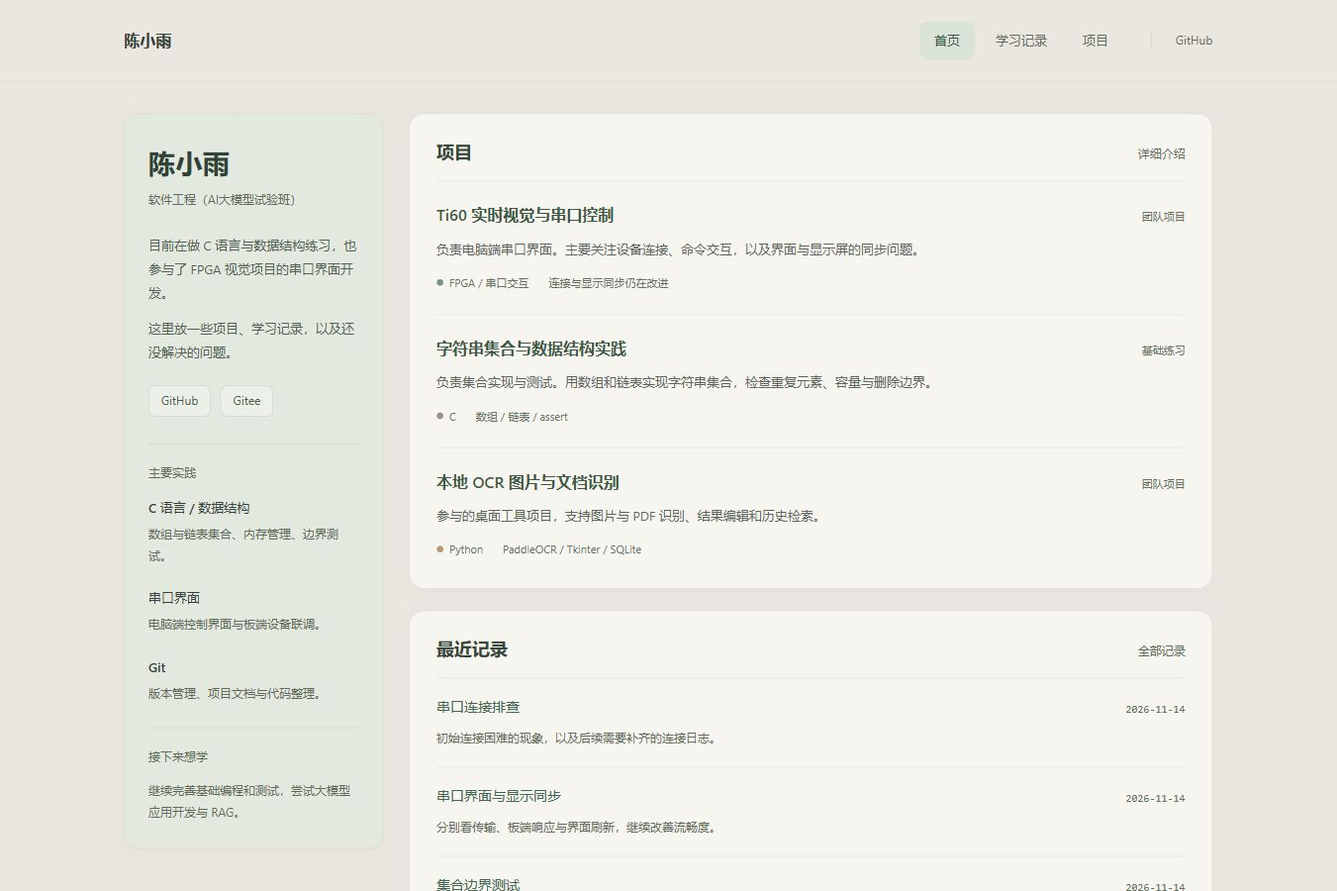
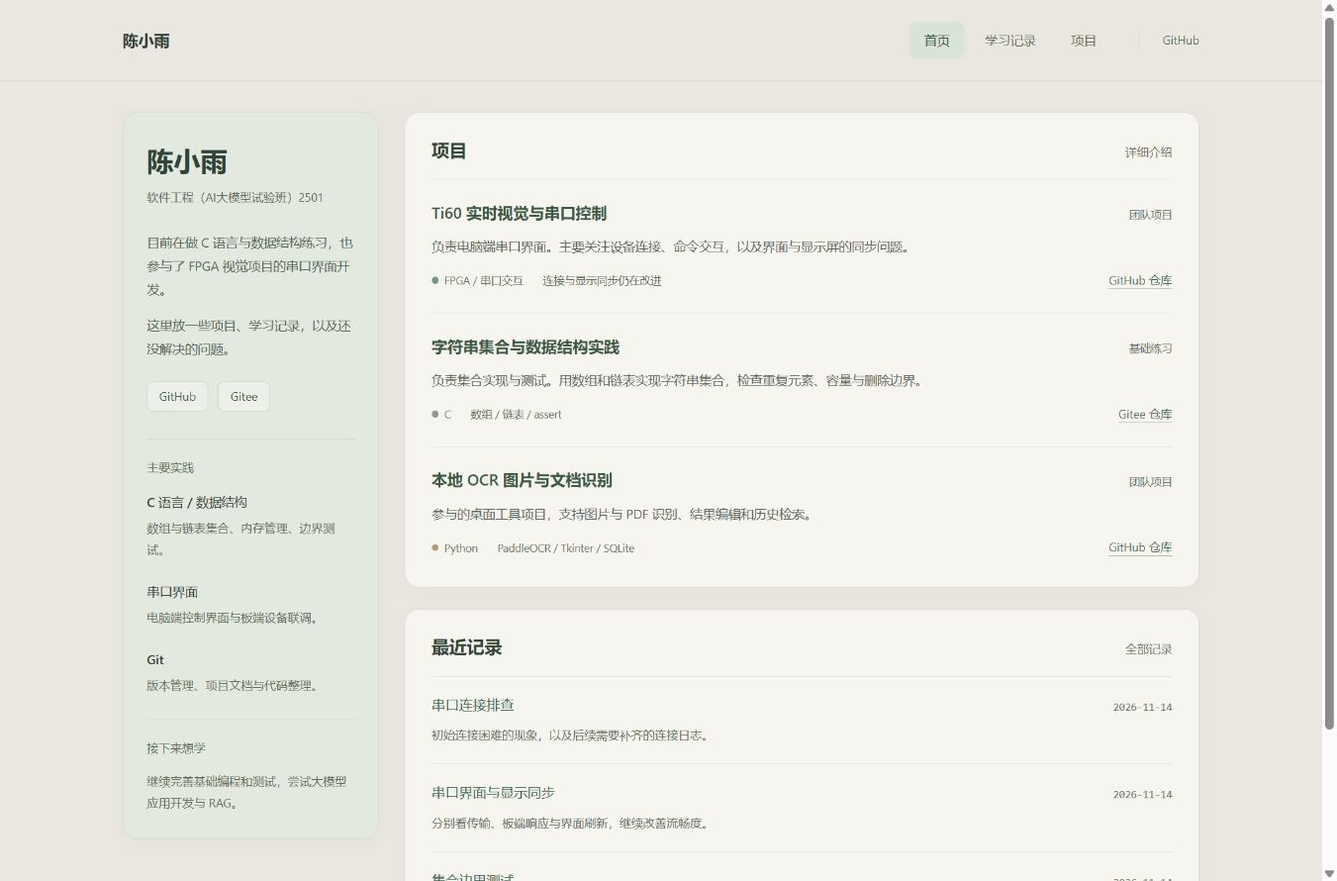
补充2501班级信息和三个项目的仓库入口

diff --git a/陈小雨-个人成长主页.html b/陈小雨-个人成长主页.html
@@ -82,6 +82,7 @@ main.wrap { min-height: 70vh; }
 .project-type { font-size: 11px; color: #66715f; white-space: nowrap; }
 .project-meta { display: flex; flex-wrap: wrap; gap: 7px 20px; font-size: 11px; color: #66715f; }
 .project-meta span { display: flex; align-items: center; gap: 6px; }
+.repo-link { margin-left: auto; font-size: 12px; text-decoration: underline; text-decoration-color: #a6b39b; white-space: nowrap; }
 .language-dot { display: inline-block; width: 7px; height: 7px; border-radius: 50%; background: #789483; }
 .language-dot.c { background: #999292; }
 .language-dot.python { background: #b49b70; }
@@ -190,6 +191,7 @@ main .view > .filters { max-width: 900px; margin: 0 auto; }
   .home-project { padding: 19px 0; }
   .home-project h3 { font-size: 14px; }
   .home-project p { margin: 9px 0; line-height: 1.95; }
+  .repo-link { margin-left: 0; }
   .note-row { gap: 7px 10px; padding: 17px 0; }
   .note-row h3 { font-size: 13px; }
   .note-row time { font-size: 10px; }
@@ -233,7 +235,7 @@ main .view > .filters { max-width: 900px; margin: 0 auto; }
 <body data-single="true"><a class="skip" href="#main">跳到主要内容</a><header class="site-header"><div class="wrap header-inner"><a class="brand" data-page="home" href="index.html">陈小雨</a><nav class="nav" aria-label="主导航"><a data-page="home" href="index.html" aria-current="page">首页</a><a data-page="journal" href="learning.html">学习记录</a><a data-page="projects" href="projects.html">项目</a></nav><a class="github-link" href="https://github.com/Jingzhe-chen714" target="_blank" rel="noopener noreferrer">GitHub</a></div></header><main class="wrap" id="main"><noscript><p class="noscript">JavaScript 未启用，静态内容仍可阅读；筛选与记录表单需要启用 JavaScript。</p></noscript><div class="view" data-view="home"><div class="home-layout">
   <aside class="profile" aria-label="关于我">
     <h1>陈小雨</h1>
-    <p class="profile-class">软件工程（AI大模型试验班）</p>
+    <p class="profile-class">软件工程（AI大模型试验班）2501</p>
     <p>目前在做 C 语言与数据结构练习，也参与了 FPGA 视觉项目的串口界面开发。</p>
     <p>这里放一些项目、学习记录，以及还没解决的问题。</p>
     <div class="profile-links" id="contact">
@@ -256,17 +258,17 @@ main .view > .filters { max-width: 900px; margin: 0 auto; }
       <article class="home-project">
         <div class="project-line"><h3><a data-page="projects" href="projects.html">Ti60 实时视觉与串口控制</a></h3><span class="project-type">团队项目</span></div>
         <p>负责电脑端串口界面。主要关注设备连接、命令交互，以及界面与显示屏的同步问题。</p>
-        <div class="project-meta"><span><i class="language-dot" aria-hidden="true"></i>FPGA / 串口交互</span><span>连接与显示同步仍在改进</span></div>
+        <div class="project-meta"><span><i class="language-dot" aria-hidden="true"></i>FPGA / 串口交互</span><span>连接与显示同步仍在改进</span><a class="repo-link" href="https://github.com/Jingzhe-chen714/fpga" target="_blank" rel="noopener noreferrer" aria-label="查看 Ti60 项目的 GitHub 仓库">GitHub 仓库</a></div>
       </article>
       <article class="home-project">
         <div class="project-line"><h3><a data-page="projects" href="projects.html">字符串集合与数据结构实践</a></h3><span class="project-type">基础练习</span></div>
         <p>负责集合实现与测试。用数组和链表实现字符串集合，检查重复元素、容量与删除边界。</p>
-        <div class="project-meta"><span><i class="language-dot c" aria-hidden="true"></i>C</span><span>数组 / 链表 / assert</span></div>
+        <div class="project-meta"><span><i class="language-dot c" aria-hidden="true"></i>C</span><span>数组 / 链表 / assert</span><a class="repo-link" href="https://gitee.com/chen-xiaoyu33/data-structure-course-design" target="_blank" rel="noopener noreferrer" aria-label="查看数据结构项目的 Gitee 仓库">Gitee 仓库</a></div>
       </article>
       <article class="home-project">
         <div class="project-line"><h3><a data-page="projects" href="projects.html">本地 OCR 图片与文档识别</a></h3><span class="project-type">团队项目</span></div>
         <p>参与的桌面工具项目，支持图片与 PDF 识别、结果编辑和历史检索。</p>
-        <div class="project-meta"><span><i class="language-dot python" aria-hidden="true"></i>Python</span><span>PaddleOCR / Tkinter / SQLite</span></div>
+        <div class="project-meta"><span><i class="language-dot python" aria-hidden="true"></i>Python</span><span>PaddleOCR / Tkinter / SQLite</span><a class="repo-link" href="https://github.com/weijiayue19/project6" target="_blank" rel="noopener noreferrer" aria-label="查看 OCR 项目的 GitHub 仓库">GitHub 仓库</a></div>
       </article>
     </section>
 
@@ -279,12 +281,12 @@ main .view > .filters { max-width: 900px; margin: 0 auto; }
   </div>
 </div>
 </div><div class="view" data-view="journal"><header class="page-title"><div class="title-line"><h1>学习记录</h1></div><p>按整理日期记录项目中遇到的问题、尝试和后续计划。</p></header><div class="searchbar"><div class="search-field"><label for="note-search">搜索学习记录</label><input id="note-search" type="search" placeholder="试试：串口、同步、集合" maxlength="100"></div><div class="filters" aria-label="学习记录分类"><button class="filter" data-note-filter="全部" aria-pressed="true" type="button">全部</button><button class="filter" data-note-filter="FPGA" aria-pressed="false" type="button">FPGA</button><button class="filter" data-note-filter="C 语言" aria-pressed="false" type="button">C 语言</button></div></div><p class="result-info" id="note-count" aria-live="polite">共 3 条学习记录</p><div class="journal-layout"><div><div id="notes"><article class="entry" data-category="FPGA"><div class="entry-meta"><time datetime="2026-11-14">2026.11.14 · 项目复盘</time><span class="tag">FPGA</span><span>待补充根因</span></div><h2>串口连接排查</h2><div class="entry-grid"><b>学到什么</b><p>参与 FPGA 项目的电脑串口界面，把界面操作与板端控制联系起来。先确认通信路径，再排查具体功能，是这次实践中需要坚持的顺序。</p><b>遇到问题</b><p>项目最开始，电脑串口与板子难以建立连接。</p><b>处理 / 下一步</b><p>保留这一问题作为联调复盘。下一轮按端口识别、端口占用、通信参数和命令响应逐项记录，并为界面补充连接状态与错误提示。接下来重点补全连接日志，确认具体根因。</p></div><div class="entry-source">相关项目：<a href="https://github.com/Jingzhe-chen714/fpga" target="_blank" rel="noopener noreferrer">FPGA 项目与串口控制说明</a></div></article><article class="entry" data-category="FPGA"><div class="entry-meta"><time datetime="2026-11-14">2026.11.14 · 项目复盘</time><span class="tag">FPGA</span><span>持续改进</span></div><h2>串口界面与显示同步</h2><div class="entry-grid"><b>学到什么</b><p>串口控制界面、板端处理和显示屏刷新之间存在多个环节；观察到同一画面，并不等于已经验证严格同步。</p><b>遇到问题</b><p>串口界面与显示屏难以做到百分之百同步，整体流畅度还不够。</p><b>处理 / 下一步</b><p>目前仍是待改进事项。计划分别记录命令发送、板端响应和显示变化的时间；再检查界面刷新是否受阻、是否重复发送命令。仓库的仿真与编译记录可以辅助分析，不能替代真实设备测试。</p></div><div class="entry-source">相关项目：<a href="https://github.com/Jingzhe-chen714/fpga/blob/main/README.md" target="_blank" rel="noopener noreferrer">README：已有验证结果与适用范围</a></div></article><article class="entry" data-category="C 语言"><div class="entry-meta"><time datetime="2026-11-14">2026.11.14 · 项目复盘</time><span class="tag">C 语言</span><span>已有测试记录</span></div><h2>集合边界测试</h2><div class="entry-grid"><b>学到什么</b><p>在数据结构项目中负责集合与测试。数组集合需要处理固定容量，链表集合需要管理节点与字符串的生命周期。</p><b>遇到问题</b><p>测试需要确认重复添加是否改变大小、空集合运算是否正确，以及删除首节点、中间节点和末节点后结构是否仍然有效。我把这些情况作为边界测试的重点。</p><b>处理 / 下一步</b><p>仓库已覆盖基本集合运算、重复元素、删除边界、清空后复用和结果写回等场景。现有测试记录通过；链表分配失败模拟与内存检测仍是后续补充方向。</p></div><div class="entry-source">相关项目：<a href="https://gitee.com/chen-xiaoyu33/data-structure-course-design" target="_blank" rel="noopener noreferrer">集合源码、测试程序与设计说明</a></div></article></div><p id="note-empty" class="empty" hidden>没有找到匹配的记录，试试其他关键词或分类。</p></div></div><details class="write-box" aria-labelledby="write-title"><summary id="write-title">添加学习记录</summary><p class="hint">记录保存在当前浏览器，可以导出 JSON 备份；换设备或清除浏览器数据前，记得先导出。</p><form id="note-form"><div class="form-grid"><div><label for="new-title">标题 *</label><input id="new-title" name="title" required maxlength="80" placeholder="这一次，我弄懂了什么？"></div><div><label for="new-date">整理日期 *</label><input id="new-date" name="date" type="date" value="2026-11-15" required min="2000-01-01" max="2100-12-31"></div><div class="full"><label for="new-what">学了什么 *</label><textarea id="new-what" name="what" required maxlength="1200" placeholder="具体任务、知识点或作品"></textarea></div><div class="full"><label for="new-problem">遇到什么问题 *</label><textarea id="new-problem" name="problem" required maxlength="1200" placeholder="描述现象，也可以记录还没理解的地方"></textarea></div><div class="full"><label for="new-solution">如何处理 / 下一步 *</label><textarea id="new-solution" name="solution" required maxlength="1200" placeholder="写清已做的尝试和仍需验证的部分"></textarea></div></div><div class="form-actions"><button type="submit" class="button">保存到当前浏览器</button><button id="export-notes" type="button" class="button secondary">导出我的记录</button></div><p id="form-status" class="status" role="status"></p></form></details></div><div class="view" data-view="projects"><header class="page-title"><div class="title-line"><h1>项目</h1></div><p>整理目前参与的项目、具体分工和遇到的问题。</p></header><div class="filters" aria-label="项目分类"><button class="filter" data-project-filter="全部" aria-pressed="true" type="button">全部作品</button><button class="filter" data-project-filter="FPGA" aria-pressed="false" type="button">FPGA / 交互</button><button class="filter" data-project-filter="C 语言" aria-pressed="false" type="button">C / 数据结构</button></div><p class="result-info" id="project-count" aria-live="polite">共 2 个项目</p>
-<article class="project" data-category="FPGA"><div><div class="tags"><span class="tag">FPGA</span><span class="tag">串口界面</span><span class="tag">团队项目</span></div><h2>Ti60 实时视觉与串口控制</h2><p class="summary">面向摄像头图像处理和电脑端控制的系统。仓库包括 Sobel / Canny 边缘处理、几何识别、板端工程、电脑控制台与验证资料。</p><dl><dt>解决问题</dt><dd>通过电脑端串口界面控制视觉处理功能，连接板端处理与显示输出。</dd><dt>我的分工</dt><dd>负责电脑端串口界面。具体视觉算法、硬件与系统整体成果属于团队项目范围。</dd><dt>使用技术</dt><dd>串口交互、电脑控制台；系统整体基于 Ti60 FPGA 与 Verilog / SystemVerilog 工程。</dd><dt>主要困难</dt><dd>初始串口连接困难；界面与显示屏同步不足，流畅度仍有提升空间。</dd><dt>当前进展</dt><dd>已有编译与仿真记录，后续继续完成实板联调，检查设备响应与显示效果。</dd></dl><div class="project-links"><a href="https://github.com/Jingzhe-chen714/fpga" target="_blank" rel="noopener noreferrer">查看项目仓库</a><a data-page="journal" href="learning.html">阅读联调复盘</a></div><details><summary>查看项目结构与后续验证计划</summary><pre>FPGA_engin/        板端工程入口与 RTL
+<article class="project" data-category="FPGA"><div><div class="tags"><span class="tag">FPGA</span><span class="tag">串口界面</span><span class="tag">团队项目</span></div><h2>Ti60 实时视觉与串口控制</h2><p class="summary">面向摄像头图像处理和电脑端控制的系统。仓库包括 Sobel / Canny 边缘处理、几何识别、板端工程、电脑控制台与验证资料。</p><dl><dt>解决问题</dt><dd>通过电脑端串口界面控制视觉处理功能，连接板端处理与显示输出。</dd><dt>我的分工</dt><dd>负责电脑端串口界面。具体视觉算法、硬件与系统整体成果属于团队项目范围。</dd><dt>使用技术</dt><dd>串口交互、电脑控制台；系统整体基于 Ti60 FPGA 与 Verilog / SystemVerilog 工程。</dd><dt>主要困难</dt><dd>初始串口连接困难；界面与显示屏同步不足，流畅度仍有提升空间。</dd><dt>当前进展</dt><dd>已有编译与仿真记录，后续继续完成实板联调，检查设备响应与显示效果。</dd></dl><div class="project-links"><a href="https://github.com/Jingzhe-chen714/fpga" target="_blank" rel="noopener noreferrer">GitHub 仓库</a><a data-page="journal" href="learning.html">阅读联调复盘</a></div><details><summary>查看项目结构与后续验证计划</summary><pre>FPGA_engin/        板端工程入口与 RTL
 开发源码/pc_v11/   电脑控制台源码
 开发源码/tb/       测试台
 说明文档/          使用与交付说明
 验证记录/          已有仿真与报告</pre><p>下一步：记录连接失败的具体日志；为命令与显示变化添加时间标记；分别测试串口响应和界面刷新。</p></details><p class="tiny">项目仓库目前为私有，页面保留主要结构与实践记录。</p></div></article>
-<article class="project" data-category="C 语言"><div><div class="tags"><span class="tag">C 语言</span><span class="tag">集合</span><span class="tag">测试</span></div><h2>字符串集合与数据结构实践</h2><p class="summary">这个仓库包含集合、英文文本排版、外部排序等练习。我参与的部分是集合实现与测试，用两种结构理解相同操作的实现差异。</p><dl><dt>解决问题</dt><dd>用数组和链表表示字符串集合，实现添加、删除、并集、交集、差集、子集判断等操作。</dd><dt>我的分工</dt><dd>负责集合与测试；针对重复元素、空集合、删除边界、容量限制和结果写回检查程序行为。</dd><dt>使用技术</dt><dd>C11、数组、链表、动态内存管理、assert 断言测试、Git。</dd><dt>关键挑战</dt><dd>需要兼顾容量和字符串边界，并正确释放链表节点与字符串；这是实现及测试的关注点。</dd><dt>当前证据</dt><dd>仓库保留数组与链表源码、测试程序和测试记录。分配失败模拟与内存检测可继续补充。</dd></dl><div class="project-links"><a href="https://gitee.com/chen-xiaoyu33/data-structure-course-design" target="_blank" rel="noopener noreferrer">查看 Gitee 仓库</a><a href="https://gitee.com/chen-xiaoyu33/data-structure-course-design/tree/master/task1_set" target="_blank" rel="noopener noreferrer">查看集合源码与测试</a></div><details open><summary>代码证据：遍历链表判断成员是否存在</summary><pre><code>int set_contains(const LinkedSet *set, const char *text)
+<article class="project" data-category="C 语言"><div><div class="tags"><span class="tag">C 语言</span><span class="tag">集合</span><span class="tag">测试</span></div><h2>字符串集合与数据结构实践</h2><p class="summary">这个仓库包含集合、英文文本排版、外部排序等练习。我参与的部分是集合实现与测试，用两种结构理解相同操作的实现差异。</p><dl><dt>解决问题</dt><dd>用数组和链表表示字符串集合，实现添加、删除、并集、交集、差集、子集判断等操作。</dd><dt>我的分工</dt><dd>负责集合与测试；针对重复元素、空集合、删除边界、容量限制和结果写回检查程序行为。</dd><dt>使用技术</dt><dd>C11、数组、链表、动态内存管理、assert 断言测试、Git。</dd><dt>关键挑战</dt><dd>需要兼顾容量和字符串边界，并正确释放链表节点与字符串；这是实现及测试的关注点。</dd><dt>当前证据</dt><dd>仓库保留数组与链表源码、测试程序和测试记录。分配失败模拟与内存检测可继续补充。</dd></dl><div class="project-links"><a href="https://gitee.com/chen-xiaoyu33/data-structure-course-design" target="_blank" rel="noopener noreferrer">Gitee 仓库</a><a href="https://gitee.com/chen-xiaoyu33/data-structure-course-design/tree/master/task1_set" target="_blank" rel="noopener noreferrer">查看集合源码与测试</a></div><details open><summary>代码证据：遍历链表判断成员是否存在</summary><pre><code>int set_contains(const LinkedSet *set, const char *text)
 {
     const Node *current = set-&gt;head;
     while (current != NULL) {
@@ -293,7 +295,7 @@ main .view > .filters { max-width: 900px; margin: 0 auto; }
     }
     return 0;
 }</code></pre><p>摘编自 task1_set/linked_set.c 的 set_contains，压缩了部分排版。逐个比较字符串，命中返回 1，遍历结束返回 0；若忽略字符串比较长度因素，时间复杂度为 O(n)。</p></details></div></article>
-<section class="section"><div class="section-heading"><div><h2>其他协作记录</h2></div></div><h3>本地 OCR 图片与文档识别工具</h3><p class="about-copy">我参与的另一个团队项目是 <a href="https://github.com/weijiayue19/project6" target="_blank" rel="noopener noreferrer">project6</a>。项目采用 Python、PaddleOCR、Tkinter 与 SQLite，提供图片 / PDF 识别、识别结果编辑和历史检索。后续继续补充这个项目的实践笔记。</p></section><p class="project-end"><a data-page="journal" href="learning.html">查看相关学习记录</a></p></div></main><footer class="wrap footer"><span>© 2026 陈小雨</span><span>更新于 2026-11-15</span></footer><script>
+<section class="section"><div class="section-heading"><div><h2>其他协作记录</h2></div></div><h3>本地 OCR 图片与文档识别工具</h3><p class="about-copy">我参与的另一个团队项目是 <a href="https://github.com/weijiayue19/project6" target="_blank" rel="noopener noreferrer">project6</a>。项目采用 Python、PaddleOCR、Tkinter 与 SQLite，提供图片 / PDF 识别、识别结果编辑和历史检索。后续继续补充这个项目的实践笔记。</p><div class="project-links"><a href="https://github.com/weijiayue19/project6" target="_blank" rel="noopener noreferrer">GitHub 仓库：weijiayue19/project6</a></div></section><p class="project-end"><a data-page="journal" href="learning.html">查看相关学习记录</a></p></div></main><footer class="wrap footer"><span>© 2026 陈小雨</span><span>更新于 2026-11-15</span></footer><script>
 'use strict';
 (() => {
   const single = document.body.dataset.single === 'true';

diff --git a/projects.html b/projects.html
@@ -1,12 +1,12 @@
 <!doctype html>
 <html lang="zh-CN"><head><meta charset="utf-8"><meta name="viewport" content="width=device-width,initial-scale=1"><meta name="description" content="陈小雨的个人主页：项目、学习记录与编程实践。"><meta name="color-scheme" content="light"><title>项目 · 陈小雨</title><link rel="stylesheet" href="assets/style.css"></head>
 <body data-single="false"><a class="skip" href="#main">跳到主要内容</a><header class="site-header"><div class="wrap header-inner"><a class="brand" data-page="home" href="index.html">陈小雨</a><nav class="nav" aria-label="主导航"><a data-page="home" href="index.html">首页</a><a data-page="journal" href="learning.html">学习记录</a><a data-page="projects" href="projects.html" aria-current="page">项目</a></nav><a class="github-link" href="https://github.com/Jingzhe-chen714" target="_blank" rel="noopener noreferrer">GitHub</a></div></header><main class="wrap" id="main"><noscript><p class="noscript">JavaScript 未启用，静态内容仍可阅读；筛选与记录表单需要启用 JavaScript。</p></noscript><div class="view" data-view="projects"><header class="page-title"><div class="title-line"><h1>项目</h1></div><p>整理目前参与的项目、具体分工和遇到的问题。</p></header><div class="filters" aria-label="项目分类"><button class="filter" data-project-filter="全部" aria-pressed="true" type="button">全部作品</button><button class="filter" data-project-filter="FPGA" aria-pressed="false" type="button">FPGA / 交互</button><button class="filter" data-project-filter="C 语言" aria-pressed="false" type="button">C / 数据结构</button></div><p class="result-info" id="project-count" aria-live="polite">共 2 个项目</p>
-<article class="project" data-category="FPGA"><div><div class="tags"><span class="tag">FPGA</span><span class="tag">串口界面</span><span class="tag">团队项目</span></div><h2>Ti60 实时视觉与串口控制</h2><p class="summary">面向摄像头图像处理和电脑端控制的系统。仓库包括 Sobel / Canny 边缘处理、几何识别、板端工程、电脑控制台与验证资料。</p><dl><dt>解决问题</dt><dd>通过电脑端串口界面控制视觉处理功能，连接板端处理与显示输出。</dd><dt>我的分工</dt><dd>负责电脑端串口界面。具体视觉算法、硬件与系统整体成果属于团队项目范围。</dd><dt>使用技术</dt><dd>串口交互、电脑控制台；系统整体基于 Ti60 FPGA 与 Verilog / SystemVerilog 工程。</dd><dt>主要困难</dt><dd>初始串口连接困难；界面与显示屏同步不足，流畅度仍有提升空间。</dd><dt>当前进展</dt><dd>已有编译与仿真记录，后续继续完成实板联调，检查设备响应与显示效果。</dd></dl><div class="project-links"><a href="https://github.com/Jingzhe-chen714/fpga" target="_blank" rel="noopener noreferrer">查看项目仓库</a><a data-page="journal" href="learning.html">阅读联调复盘</a></div><details><summary>查看项目结构与后续验证计划</summary><pre>FPGA_engin/        板端工程入口与 RTL
+<article class="project" data-category="FPGA"><div><div class="tags"><span class="tag">FPGA</span><span class="tag">串口界面</span><span class="tag">团队项目</span></div><h2>Ti60 实时视觉与串口控制</h2><p class="summary">面向摄像头图像处理和电脑端控制的系统。仓库包括 Sobel / Canny 边缘处理、几何识别、板端工程、电脑控制台与验证资料。</p><dl><dt>解决问题</dt><dd>通过电脑端串口界面控制视觉处理功能，连接板端处理与显示输出。</dd><dt>我的分工</dt><dd>负责电脑端串口界面。具体视觉算法、硬件与系统整体成果属于团队项目范围。</dd><dt>使用技术</dt><dd>串口交互、电脑控制台；系统整体基于 Ti60 FPGA 与 Verilog / SystemVerilog 工程。</dd><dt>主要困难</dt><dd>初始串口连接困难；界面与显示屏同步不足，流畅度仍有提升空间。</dd><dt>当前进展</dt><dd>已有编译与仿真记录，后续继续完成实板联调，检查设备响应与显示效果。</dd></dl><div class="project-links"><a href="https://github.com/Jingzhe-chen714/fpga" target="_blank" rel="noopener noreferrer">GitHub 仓库</a><a data-page="journal" href="learning.html">阅读联调复盘</a></div><details><summary>查看项目结构与后续验证计划</summary><pre>FPGA_engin/        板端工程入口与 RTL
 开发源码/pc_v11/   电脑控制台源码
 开发源码/tb/       测试台
 说明文档/          使用与交付说明
 验证记录/          已有仿真与报告</pre><p>下一步：记录连接失败的具体日志；为命令与显示变化添加时间标记；分别测试串口响应和界面刷新。</p></details><p class="tiny">项目仓库目前为私有，页面保留主要结构与实践记录。</p></div></article>
-<article class="project" data-category="C 语言"><div><div class="tags"><span class="tag">C 语言</span><span class="tag">集合</span><span class="tag">测试</span></div><h2>字符串集合与数据结构实践</h2><p class="summary">这个仓库包含集合、英文文本排版、外部排序等练习。我参与的部分是集合实现与测试，用两种结构理解相同操作的实现差异。</p><dl><dt>解决问题</dt><dd>用数组和链表表示字符串集合，实现添加、删除、并集、交集、差集、子集判断等操作。</dd><dt>我的分工</dt><dd>负责集合与测试；针对重复元素、空集合、删除边界、容量限制和结果写回检查程序行为。</dd><dt>使用技术</dt><dd>C11、数组、链表、动态内存管理、assert 断言测试、Git。</dd><dt>关键挑战</dt><dd>需要兼顾容量和字符串边界，并正确释放链表节点与字符串；这是实现及测试的关注点。</dd><dt>当前证据</dt><dd>仓库保留数组与链表源码、测试程序和测试记录。分配失败模拟与内存检测可继续补充。</dd></dl><div class="project-links"><a href="https://gitee.com/chen-xiaoyu33/data-structure-course-design" target="_blank" rel="noopener noreferrer">查看 Gitee 仓库</a><a href="https://gitee.com/chen-xiaoyu33/data-structure-course-design/tree/master/task1_set" target="_blank" rel="noopener noreferrer">查看集合源码与测试</a></div><details open><summary>代码证据：遍历链表判断成员是否存在</summary><pre><code>int set_contains(const LinkedSet *set, const char *text)
+<article class="project" data-category="C 语言"><div><div class="tags"><span class="tag">C 语言</span><span class="tag">集合</span><span class="tag">测试</span></div><h2>字符串集合与数据结构实践</h2><p class="summary">这个仓库包含集合、英文文本排版、外部排序等练习。我参与的部分是集合实现与测试，用两种结构理解相同操作的实现差异。</p><dl><dt>解决问题</dt><dd>用数组和链表表示字符串集合，实现添加、删除、并集、交集、差集、子集判断等操作。</dd><dt>我的分工</dt><dd>负责集合与测试；针对重复元素、空集合、删除边界、容量限制和结果写回检查程序行为。</dd><dt>使用技术</dt><dd>C11、数组、链表、动态内存管理、assert 断言测试、Git。</dd><dt>关键挑战</dt><dd>需要兼顾容量和字符串边界，并正确释放链表节点与字符串；这是实现及测试的关注点。</dd><dt>当前证据</dt><dd>仓库保留数组与链表源码、测试程序和测试记录。分配失败模拟与内存检测可继续补充。</dd></dl><div class="project-links"><a href="https://gitee.com/chen-xiaoyu33/data-structure-course-design" target="_blank" rel="noopener noreferrer">Gitee 仓库</a><a href="https://gitee.com/chen-xiaoyu33/data-structure-course-design/tree/master/task1_set" target="_blank" rel="noopener noreferrer">查看集合源码与测试</a></div><details open><summary>代码证据：遍历链表判断成员是否存在</summary><pre><code>int set_contains(const LinkedSet *set, const char *text)
 {
     const Node *current = set-&gt;head;
     while (current != NULL) {
@@ -15,4 +15,4 @@
     }
     return 0;
 }</code></pre><p>摘编自 task1_set/linked_set.c 的 set_contains，压缩了部分排版。逐个比较字符串，命中返回 1，遍历结束返回 0；若忽略字符串比较长度因素，时间复杂度为 O(n)。</p></details></div></article>
-<section class="section"><div class="section-heading"><div><h2>其他协作记录</h2></div></div><h3>本地 OCR 图片与文档识别工具</h3><p class="about-copy">我参与的另一个团队项目是 <a href="https://github.com/weijiayue19/project6" target="_blank" rel="noopener noreferrer">project6</a>。项目采用 Python、PaddleOCR、Tkinter 与 SQLite，提供图片 / PDF 识别、识别结果编辑和历史检索。后续继续补充这个项目的实践笔记。</p></section><p class="project-end"><a data-page="journal" href="learning.html">查看相关学习记录</a></p></div></main><footer class="wrap footer"><span>© 2026 陈小雨</span><span>更新于 2026-11-15</span></footer><script src="assets/app.js" defer></script></body></html>
+<section class="section"><div class="section-heading"><div><h2>其他协作记录</h2></div></div><h3>本地 OCR 图片与文档识别工具</h3><p class="about-copy">我参与的另一个团队项目是 <a href="https://github.com/weijiayue19/project6" target="_blank" rel="noopener noreferrer">project6</a>。项目采用 Python、PaddleOCR、Tkinter 与 SQLite，提供图片 / PDF 识别、识别结果编辑和历史检索。后续继续补充这个项目的实践笔记。</p><div class="project-links"><a href="https://github.com/weijiayue19/project6" target="_blank" rel="noopener noreferrer">GitHub 仓库：weijiayue19/project6</a></div></section><p class="project-end"><a data-page="journal" href="learning.html">查看相关学习记录</a></p></div></main><footer class="wrap footer"><span>© 2026 陈小雨</span><span>更新于 2026-11-15</span></footer><script src="assets/app.js" defer></script></body></html>

diff --git a/index.html b/index.html
@@ -3,7 +3,7 @@
 <body data-single="false"><a class="skip" href="#main">跳到主要内容</a><header class="site-header"><div class="wrap header-inner"><a class="brand" data-page="home" href="index.html">陈小雨</a><nav class="nav" aria-label="主导航"><a data-page="home" href="index.html" aria-current="page">首页</a><a data-page="journal" href="learning.html">学习记录</a><a data-page="projects" href="projects.html">项目</a></nav><a class="github-link" href="https://github.com/Jingzhe-chen714" target="_blank" rel="noopener noreferrer">GitHub</a></div></header><main class="wrap" id="main"><noscript><p class="noscript">JavaScript 未启用，静态内容仍可阅读；筛选与记录表单需要启用 JavaScript。</p></noscript><div class="view" data-view="home"><div class="home-layout">
   <aside class="profile" aria-label="关于我">
     <h1>陈小雨</h1>
-    <p class="profile-class">软件工程（AI大模型试验班）</p>
+    <p class="profile-class">软件工程（AI大模型试验班）2501</p>
     <p>目前在做 C 语言与数据结构练习，也参与了 FPGA 视觉项目的串口界面开发。</p>
     <p>这里放一些项目、学习记录，以及还没解决的问题。</p>
     <div class="profile-links" id="contact">
@@ -26,17 +26,17 @@
       <article class="home-project">
         <div class="project-line"><h3><a data-page="projects" href="projects.html">Ti60 实时视觉与串口控制</a></h3><span class="project-type">团队项目</span></div>
         <p>负责电脑端串口界面。主要关注设备连接、命令交互，以及界面与显示屏的同步问题。</p>
-        <div class="project-meta"><span><i class="language-dot" aria-hidden="true"></i>FPGA / 串口交互</span><span>连接与显示同步仍在改进</span></div>
+        <div class="project-meta"><span><i class="language-dot" aria-hidden="true"></i>FPGA / 串口交互</span><span>连接与显示同步仍在改进</span><a class="repo-link" href="https://github.com/Jingzhe-chen714/fpga" target="_blank" rel="noopener noreferrer" aria-label="查看 Ti60 项目的 GitHub 仓库">GitHub 仓库</a></div>
       </article>
       <article class="home-project">
         <div class="project-line"><h3><a data-page="projects" href="projects.html">字符串集合与数据结构实践</a></h3><span class="project-type">基础练习</span></div>
         <p>负责集合实现与测试。用数组和链表实现字符串集合，检查重复元素、容量与删除边界。</p>
-        <div class="project-meta"><span><i class="language-dot c" aria-hidden="true"></i>C</span><span>数组 / 链表 / assert</span></div>
+        <div class="project-meta"><span><i class="language-dot c" aria-hidden="true"></i>C</span><span>数组 / 链表 / assert</span><a class="repo-link" href="https://gitee.com/chen-xiaoyu33/data-structure-course-design" target="_blank" rel="noopener noreferrer" aria-label="查看数据结构项目的 Gitee 仓库">Gitee 仓库</a></div>
       </article>
       <article class="home-project">
         <div class="project-line"><h3><a data-page="projects" href="projects.html">本地 OCR 图片与文档识别</a></h3><span class="project-type">团队项目</span></div>
         <p>参与的桌面工具项目，支持图片与 PDF 识别、结果编辑和历史检索。</p>
-        <div class="project-meta"><span><i class="language-dot python" aria-hidden="true"></i>Python</span><span>PaddleOCR / Tkinter / SQLite</span></div>
+        <div class="project-meta"><span><i class="language-dot python" aria-hidden="true"></i>Python</span><span>PaddleOCR / Tkinter / SQLite</span><a class="repo-link" href="https://github.com/weijiayue19/project6" target="_blank" rel="noopener noreferrer" aria-label="查看 OCR 项目的 GitHub 仓库">GitHub 仓库</a></div>
       </article>
     </section>
 

diff --git a/templates/home.html b/templates/home.html
@@ -1,7 +1,7 @@
 <div class="home-layout">
   <aside class="profile" aria-label="关于我">
     <h1>陈小雨</h1>
-    <p class="profile-class">软件工程（AI大模型试验班）</p>
+    <p class="profile-class">软件工程（AI大模型试验班）2501</p>
     <p>目前在做 C 语言与数据结构练习，也参与了 FPGA 视觉项目的串口界面开发。</p>
     <p>这里放一些项目、学习记录，以及还没解决的问题。</p>
     <div class="profile-links" id="contact">
@@ -24,17 +24,17 @@
       <article class="home-project">
         <div class="project-line"><h3><a data-page="projects" href="projects.html">Ti60 实时视觉与串口控制</a></h3><span class="project-type">团队项目</span></div>
         <p>负责电脑端串口界面。主要关注设备连接、命令交互，以及界面与显示屏的同步问题。</p>
-        <div class="project-meta"><span><i class="language-dot" aria-hidden="true"></i>FPGA / 串口交互</span><span>连接与显示同步仍在改进</span></div>
+        <div class="project-meta"><span><i class="language-dot" aria-hidden="true"></i>FPGA / 串口交互</span><span>连接与显示同步仍在改进</span><a class="repo-link" href="https://github.com/Jingzhe-chen714/fpga" target="_blank" rel="noopener noreferrer" aria-label="查看 Ti60 项目的 GitHub 仓库">GitHub 仓库</a></div>
       </article>
       <article class="home-project">
         <div class="project-line"><h3><a data-page="projects" href="projects.html">字符串集合与数据结构实践</a></h3><span class="project-type">基础练习</span></div>
         <p>负责集合实现与测试。用数组和链表实现字符串集合，检查重复元素、容量与删除边界。</p>
-        <div class="project-meta"><span><i class="language-dot c" aria-hidden="true"></i>C</span><span>数组 / 链表 / assert</span></div>
+        <div class="project-meta"><span><i class="language-dot c" aria-hidden="true"></i>C</span><span>数组 / 链表 / assert</span><a class="repo-link" href="https://gitee.com/chen-xiaoyu33/data-structure-course-design" target="_blank" rel="noopener noreferrer" aria-label="查看数据结构项目的 Gitee 仓库">Gitee 仓库</a></div>
       </article>
       <article class="home-project">
         <div class="project-line"><h3><a data-page="projects" href="projects.html">本地 OCR 图片与文档识别</a></h3><span class="project-type">团队项目</span></div>
         <p>参与的桌面工具项目，支持图片与 PDF 识别、结果编辑和历史检索。</p>
-        <div class="project-meta"><span><i class="language-dot python" aria-hidden="true"></i>Python</span><span>PaddleOCR / Tkinter / SQLite</span></div>
+        <div class="project-meta"><span><i class="language-dot python" aria-hidden="true"></i>Python</span><span>PaddleOCR / Tkinter / SQLite</span><a class="repo-link" href="https://github.com/weijiayue19/project6" target="_blank" rel="noopener noreferrer" aria-label="查看 OCR 项目的 GitHub 仓库">GitHub 仓库</a></div>
       </article>
     </section>
 

diff --git a/assets/style.css b/assets/style.css
@@ -81,6 +81,7 @@ main.wrap { min-height: 70vh; }
 .project-type { font-size: 11px; color: #66715f; white-space: nowrap; }
 .project-meta { display: flex; flex-wrap: wrap; gap: 7px 20px; font-size: 11px; color: #66715f; }
 .project-meta span { display: flex; align-items: center; gap: 6px; }
+.repo-link { margin-left: auto; font-size: 12px; text-decoration: underline; text-decoration-color: #a6b39b; white-space: nowrap; }
 .language-dot { display: inline-block; width: 7px; height: 7px; border-radius: 50%; background: #789483; }
 .language-dot.c { background: #999292; }
 .language-dot.python { background: #b49b70; }
@@ -189,6 +190,7 @@ main .view > .filters { max-width: 900px; margin: 0 auto; }
   .home-project { padding: 19px 0; }
   .home-project h3 { font-size: 14px; }
   .home-project p { margin: 9px 0; line-height: 1.95; }
+  .repo-link { margin-left: 0; }
   .note-row { gap: 7px 10px; padding: 17px 0; }
   .note-row h3 { font-size: 13px; }
   .note-row time { font-size: 10px; }

diff --git a/templates/style.css b/templates/style.css
@@ -81,6 +81,7 @@ main.wrap { min-height: 70vh; }
 .project-type { font-size: 11px; color: #66715f; white-space: nowrap; }
 .project-meta { display: flex; flex-wrap: wrap; gap: 7px 20px; font-size: 11px; color: #66715f; }
 .project-meta span { display: flex; align-items: center; gap: 6px; }
+.repo-link { margin-left: auto; font-size: 12px; text-decoration: underline; text-decoration-color: #a6b39b; white-space: nowrap; }
 .language-dot { display: inline-block; width: 7px; height: 7px; border-radius: 50%; background: #789483; }
 .language-dot.c { background: #999292; }
 .language-dot.python { background: #b49b70; }
@@ -189,6 +190,7 @@ main .view > .filters { max-width: 900px; margin: 0 auto; }
   .home-project { padding: 19px 0; }
   .home-project h3 { font-size: 14px; }
   .home-project p { margin: 9px 0; line-height: 1.95; }
+  .repo-link { margin-left: 0; }
   .note-row { gap: 7px 10px; padding: 17px 0; }
   .note-row h3 { font-size: 13px; }
   .note-row time { font-size: 10px; }

diff --git a/tools/build.py b/tools/build.py
@@ -28,13 +28,13 @@ snippet = escape('''int set_contains(const LinkedSet *set, const char *text)
 }''')
 
 PROJECTS = '''<header class="page-title"><div class="title-line"><h1>项目</h1></div><p>整理目前参与的项目、具体分工和遇到的问题。</p></header><div class="filters" aria-label="项目分类"><button class="filter" data-project-filter="全部" aria-pressed="true" type="button">全部作品</button><button class="filter" data-project-filter="FPGA" aria-pressed="false" type="button">FPGA / 交互</button><button class="filter" data-project-filter="C 语言" aria-pressed="false" type="button">C / 数据结构</button></div><p class="result-info" id="project-count" aria-live="polite">共 2 个项目</p>
-<article class="project" data-category="FPGA"><div><div class="tags"><span class="tag">FPGA</span><span class="tag">串口界面</span><span class="tag">团队项目</span></div><h2>Ti60 实时视觉与串口控制</h2><p class="summary">面向摄像头图像处理和电脑端控制的系统。仓库包括 Sobel / Canny 边缘处理、几何识别、板端工程、电脑控制台与验证资料。</p><dl><dt>解决问题</dt><dd>通过电脑端串口界面控制视觉处理功能，连接板端处理与显示输出。</dd><dt>我的分工</dt><dd>负责电脑端串口界面。具体视觉算法、硬件与系统整体成果属于团队项目范围。</dd><dt>使用技术</dt><dd>串口交互、电脑控制台；系统整体基于 Ti60 FPGA 与 Verilog / SystemVerilog 工程。</dd><dt>主要困难</dt><dd>初始串口连接困难；界面与显示屏同步不足，流畅度仍有提升空间。</dd><dt>当前进展</dt><dd>已有编译与仿真记录，后续继续完成实板联调，检查设备响应与显示效果。</dd></dl><div class="project-links"><a href="https://github.com/Jingzhe-chen714/fpga" target="_blank" rel="noopener noreferrer">查看项目仓库</a><a data-page="journal" href="learning.html">阅读联调复盘</a></div><details><summary>查看项目结构与后续验证计划</summary><pre>FPGA_engin/        板端工程入口与 RTL
+<article class="project" data-category="FPGA"><div><div class="tags"><span class="tag">FPGA</span><span class="tag">串口界面</span><span class="tag">团队项目</span></div><h2>Ti60 实时视觉与串口控制</h2><p class="summary">面向摄像头图像处理和电脑端控制的系统。仓库包括 Sobel / Canny 边缘处理、几何识别、板端工程、电脑控制台与验证资料。</p><dl><dt>解决问题</dt><dd>通过电脑端串口界面控制视觉处理功能，连接板端处理与显示输出。</dd><dt>我的分工</dt><dd>负责电脑端串口界面。具体视觉算法、硬件与系统整体成果属于团队项目范围。</dd><dt>使用技术</dt><dd>串口交互、电脑控制台；系统整体基于 Ti60 FPGA 与 Verilog / SystemVerilog 工程。</dd><dt>主要困难</dt><dd>初始串口连接困难；界面与显示屏同步不足，流畅度仍有提升空间。</dd><dt>当前进展</dt><dd>已有编译与仿真记录，后续继续完成实板联调，检查设备响应与显示效果。</dd></dl><div class="project-links"><a href="https://github.com/Jingzhe-chen714/fpga" target="_blank" rel="noopener noreferrer">GitHub 仓库</a><a data-page="journal" href="learning.html">阅读联调复盘</a></div><details><summary>查看项目结构与后续验证计划</summary><pre>FPGA_engin/        板端工程入口与 RTL
 开发源码/pc_v11/   电脑控制台源码
 开发源码/tb/       测试台
 说明文档/          使用与交付说明
 验证记录/          已有仿真与报告</pre><p>下一步：记录连接失败的具体日志；为命令与显示变化添加时间标记；分别测试串口响应和界面刷新。</p></details><p class="tiny">项目仓库目前为私有，页面保留主要结构与实践记录。</p></div></article>
-<article class="project" data-category="C 语言"><div><div class="tags"><span class="tag">C 语言</span><span class="tag">集合</span><span class="tag">测试</span></div><h2>字符串集合与数据结构实践</h2><p class="summary">这个仓库包含集合、英文文本排版、外部排序等练习。我参与的部分是集合实现与测试，用两种结构理解相同操作的实现差异。</p><dl><dt>解决问题</dt><dd>用数组和链表表示字符串集合，实现添加、删除、并集、交集、差集、子集判断等操作。</dd><dt>我的分工</dt><dd>负责集合与测试；针对重复元素、空集合、删除边界、容量限制和结果写回检查程序行为。</dd><dt>使用技术</dt><dd>C11、数组、链表、动态内存管理、assert 断言测试、Git。</dd><dt>关键挑战</dt><dd>需要兼顾容量和字符串边界，并正确释放链表节点与字符串；这是实现及测试的关注点。</dd><dt>当前证据</dt><dd>仓库保留数组与链表源码、测试程序和测试记录。分配失败模拟与内存检测可继续补充。</dd></dl><div class="project-links"><a href="https://gitee.com/chen-xiaoyu33/data-structure-course-design" target="_blank" rel="noopener noreferrer">查看 Gitee 仓库</a><a href="https://gitee.com/chen-xiaoyu33/data-structure-course-design/tree/master/task1_set" target="_blank" rel="noopener noreferrer">查看集合源码与测试</a></div><details open><summary>代码证据：遍历链表判断成员是否存在</summary><pre><code>''' + snippet + '''</code></pre><p>摘编自 task1_set/linked_set.c 的 set_contains，压缩了部分排版。逐个比较字符串，命中返回 1，遍历结束返回 0；若忽略字符串比较长度因素，时间复杂度为 O(n)。</p></details></div></article>
-<section class="section"><div class="section-heading"><div><h2>其他协作记录</h2></div></div><h3>本地 OCR 图片与文档识别工具</h3><p class="about-copy">我参与的另一个团队项目是 <a href="https://github.com/weijiayue19/project6" target="_blank" rel="noopener noreferrer">project6</a>。项目采用 Python、PaddleOCR、Tkinter 与 SQLite，提供图片 / PDF 识别、识别结果编辑和历史检索。后续继续补充这个项目的实践笔记。</p></section><p class="project-end"><a data-page="journal" href="learning.html">查看相关学习记录</a></p>'''
+<article class="project" data-category="C 语言"><div><div class="tags"><span class="tag">C 语言</span><span class="tag">集合</span><span class="tag">测试</span></div><h2>字符串集合与数据结构实践</h2><p class="summary">这个仓库包含集合、英文文本排版、外部排序等练习。我参与的部分是集合实现与测试，用两种结构理解相同操作的实现差异。</p><dl><dt>解决问题</dt><dd>用数组和链表表示字符串集合，实现添加、删除、并集、交集、差集、子集判断等操作。</dd><dt>我的分工</dt><dd>负责集合与测试；针对重复元素、空集合、删除边界、容量限制和结果写回检查程序行为。</dd><dt>使用技术</dt><dd>C11、数组、链表、动态内存管理、assert 断言测试、Git。</dd><dt>关键挑战</dt><dd>需要兼顾容量和字符串边界，并正确释放链表节点与字符串；这是实现及测试的关注点。</dd><dt>当前证据</dt><dd>仓库保留数组与链表源码、测试程序和测试记录。分配失败模拟与内存检测可继续补充。</dd></dl><div class="project-links"><a href="https://gitee.com/chen-xiaoyu33/data-structure-course-design" target="_blank" rel="noopener noreferrer">Gitee 仓库</a><a href="https://gitee.com/chen-xiaoyu33/data-structure-course-design/tree/master/task1_set" target="_blank" rel="noopener noreferrer">查看集合源码与测试</a></div><details open><summary>代码证据：遍历链表判断成员是否存在</summary><pre><code>''' + snippet + '''</code></pre><p>摘编自 task1_set/linked_set.c 的 set_contains，压缩了部分排版。逐个比较字符串，命中返回 1，遍历结束返回 0；若忽略字符串比较长度因素，时间复杂度为 O(n)。</p></details></div></article>
+<section class="section"><div class="section-heading"><div><h2>其他协作记录</h2></div></div><h3>本地 OCR 图片与文档识别工具</h3><p class="about-copy">我参与的另一个团队项目是 <a href="https://github.com/weijiayue19/project6" target="_blank" rel="noopener noreferrer">project6</a>。项目采用 Python、PaddleOCR、Tkinter 与 SQLite，提供图片 / PDF 识别、识别结果编辑和历史检索。后续继续补充这个项目的实践笔记。</p><div class="project-links"><a href="https://github.com/weijiayue19/project6" target="_blank" rel="noopener noreferrer">GitHub 仓库：weijiayue19/project6</a></div></section><p class="project-end"><a data-page="journal" href="learning.html">查看相关学习记录</a></p>'''
 
 JS = r'''
 'use strict';

diff --git a/README.md b/README.md
@@ -2,6 +2,8 @@
 
 个人项目、学习记录和实践笔记。
 
+软件工程（AI大模型试验班）2501 · 陈小雨。
+
 目前主要做 C 语言与数据结构练习，也参与 FPGA 视觉项目的串口界面开发。
 
 ![主页预览](screenshots/首页截图.jpg)
